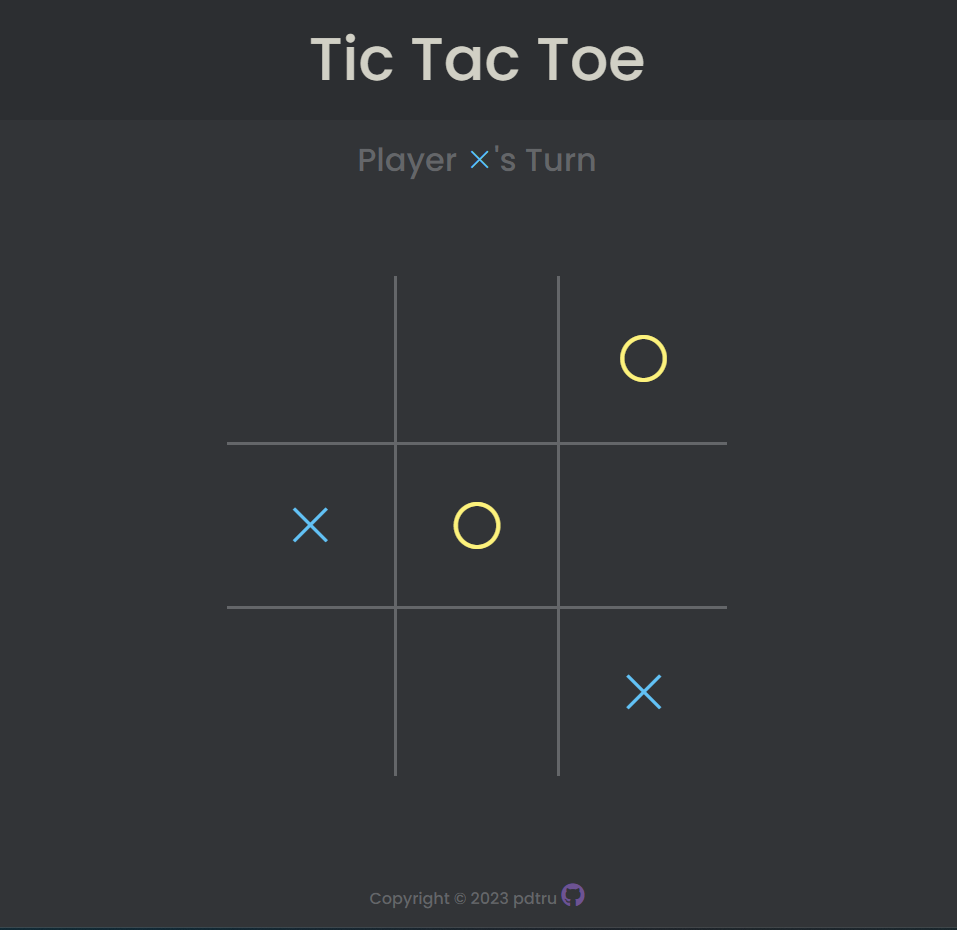
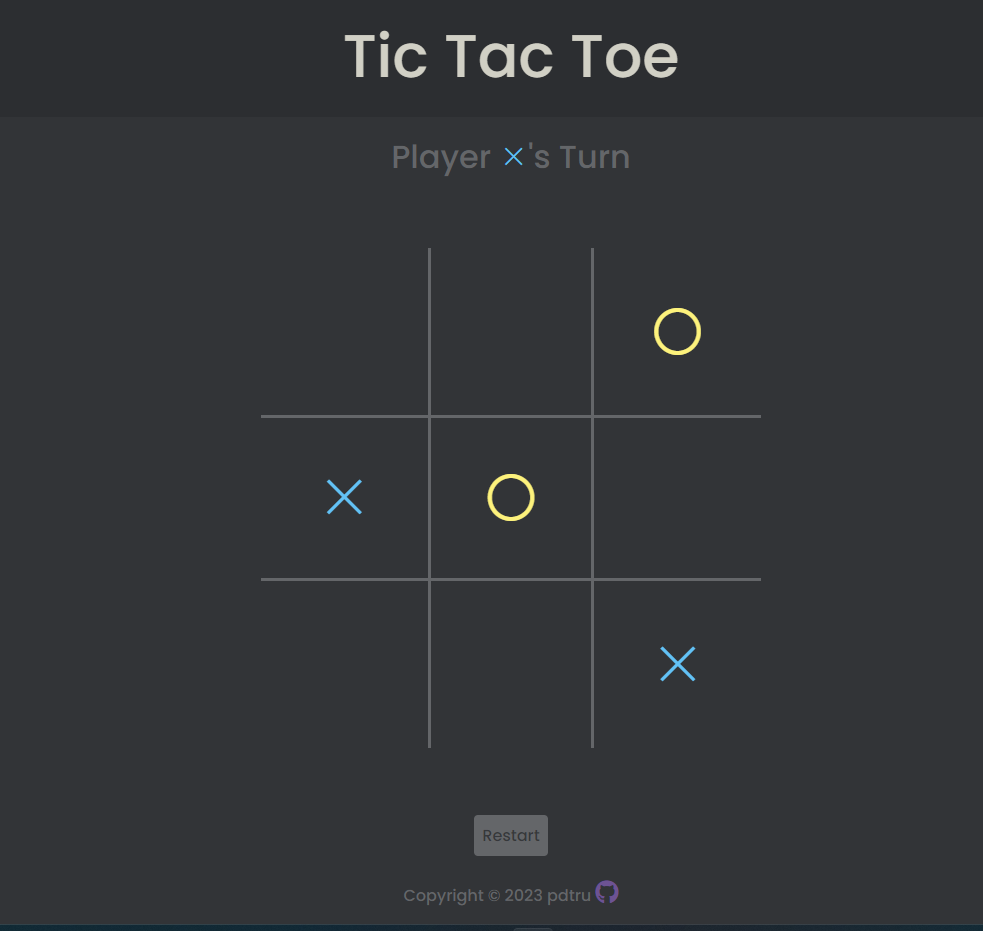
Add restart button

diff --git a/app.js b/app.js
@@ -97,14 +97,21 @@ class Game {
   constructor() {
     this.gameBoard = new GameBoard();
     this.gameText = new GameText();
+    this.restartButton = new RestartButton();
   }
 
   render = () => {
     gameContainer.innerHTML = '';
     const gameTextNode = this.gameText.render(this.currentPlayer);
     const gameBoardNode = this.gameBoard.render();
-    gameContainer.appendChild(gameTextNode);
-    gameContainer.appendChild(gameBoardNode);
+    const restartButtonNode = this.restartButton.render();
+    gameContainer.append(gameTextNode, gameBoardNode, restartButtonNode);
+
+    restartButtonNode.onclick = this.onClick;
+  };
+
+  onClick = () => {
+    this.startGame();
   };
 
   startGame = () => {
@@ -313,6 +320,20 @@ class GameText {
   }
 }
 
+class RestartButton {
+  render() {
+    const restartButtonContainer = document.createElement('div');
+    restartButtonContainer.className = 'restart-button-container';
+
+    const restartButton = document.createElement('button');
+    restartButton.className = 'restart-button';
+    restartButton.innerText = 'Restart';
+
+    restartButtonContainer.appendChild(restartButton);
+    return restartButtonContainer;
+  }
+}
+
 class FooterFactory {
   createFooter() {
     const footerContainer = document.createElement('footer');
@@ -341,4 +362,5 @@ const footer = new FooterFactory();
 body.append(header.createHeader(), gameContainer, footer.createFooter());
 
 const game = new Game();
+
 game.startGame();

diff --git a/styles.css b/styles.css
@@ -66,6 +66,27 @@ body {
   font-size: 64px;
 }
 
+.restart-button-container {
+  display: flex;
+  justify-content: center;
+  align-items: center;
+}
+
+.restart-button {
+  font-size: 16px;
+  color: #36383b;
+  background-color: #646669;
+  border-style: none;
+  border-radius: 4px;
+  padding: 8px;
+  margin-bottom: 8px;
+}
+
+.restart-button:hover {
+  background-color: #939497;
+  cursor: pointer;
+}
+
 /* footer */
 .footer {
   display: flex;
